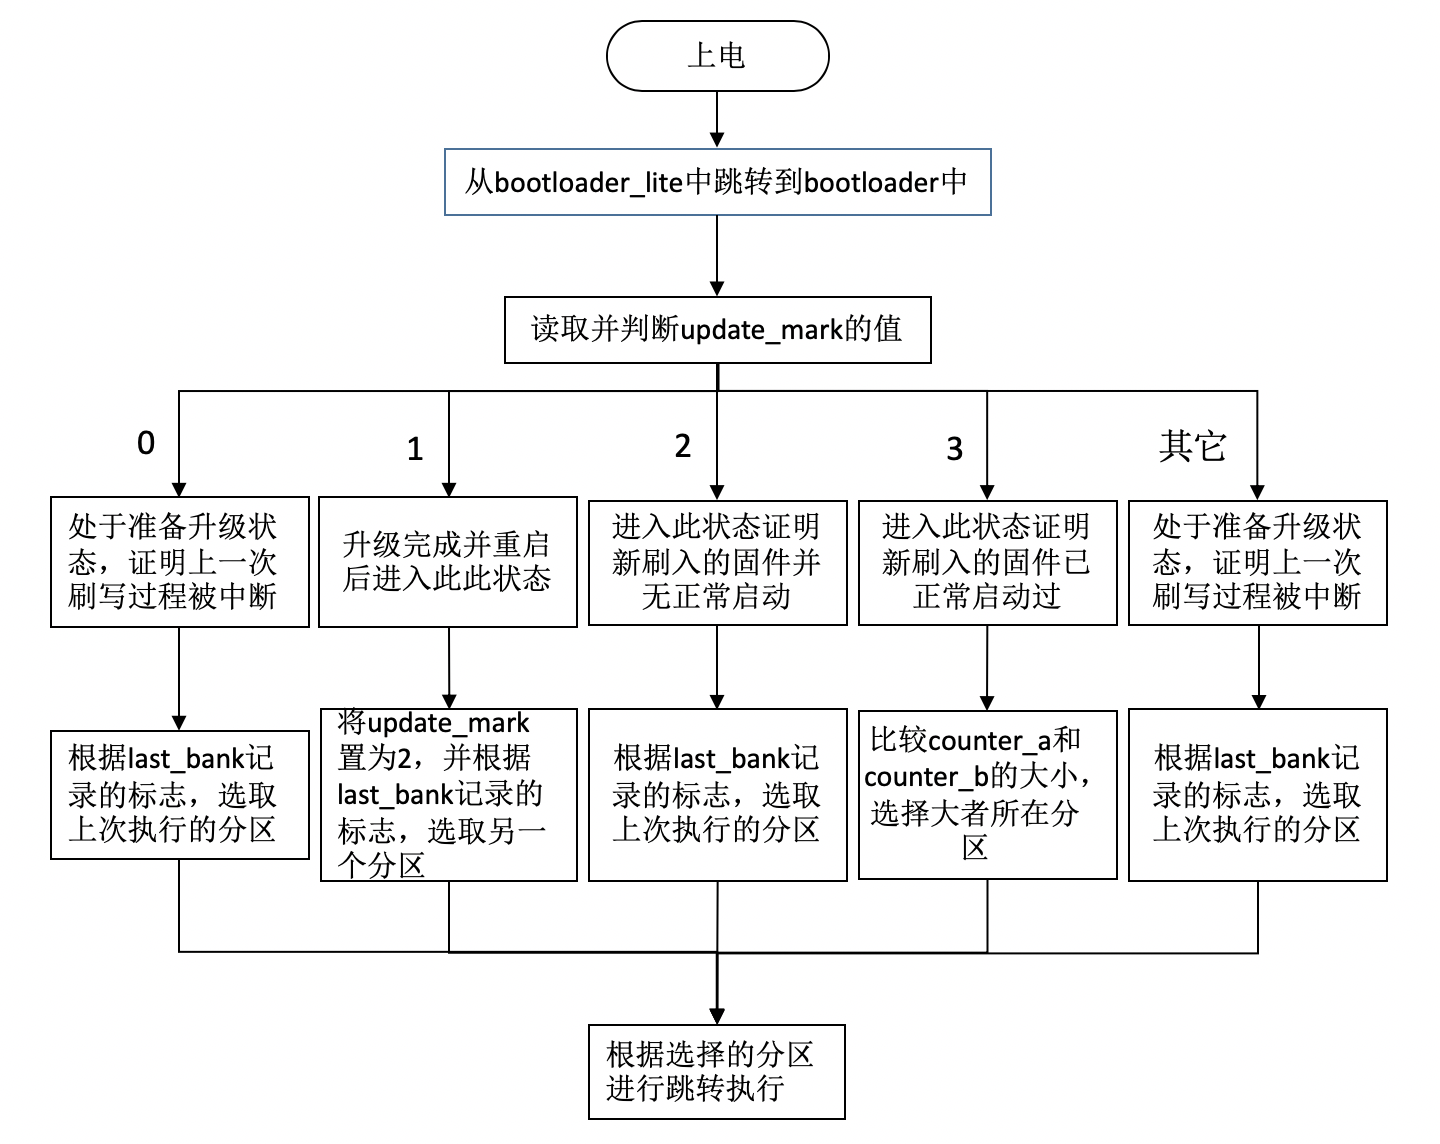
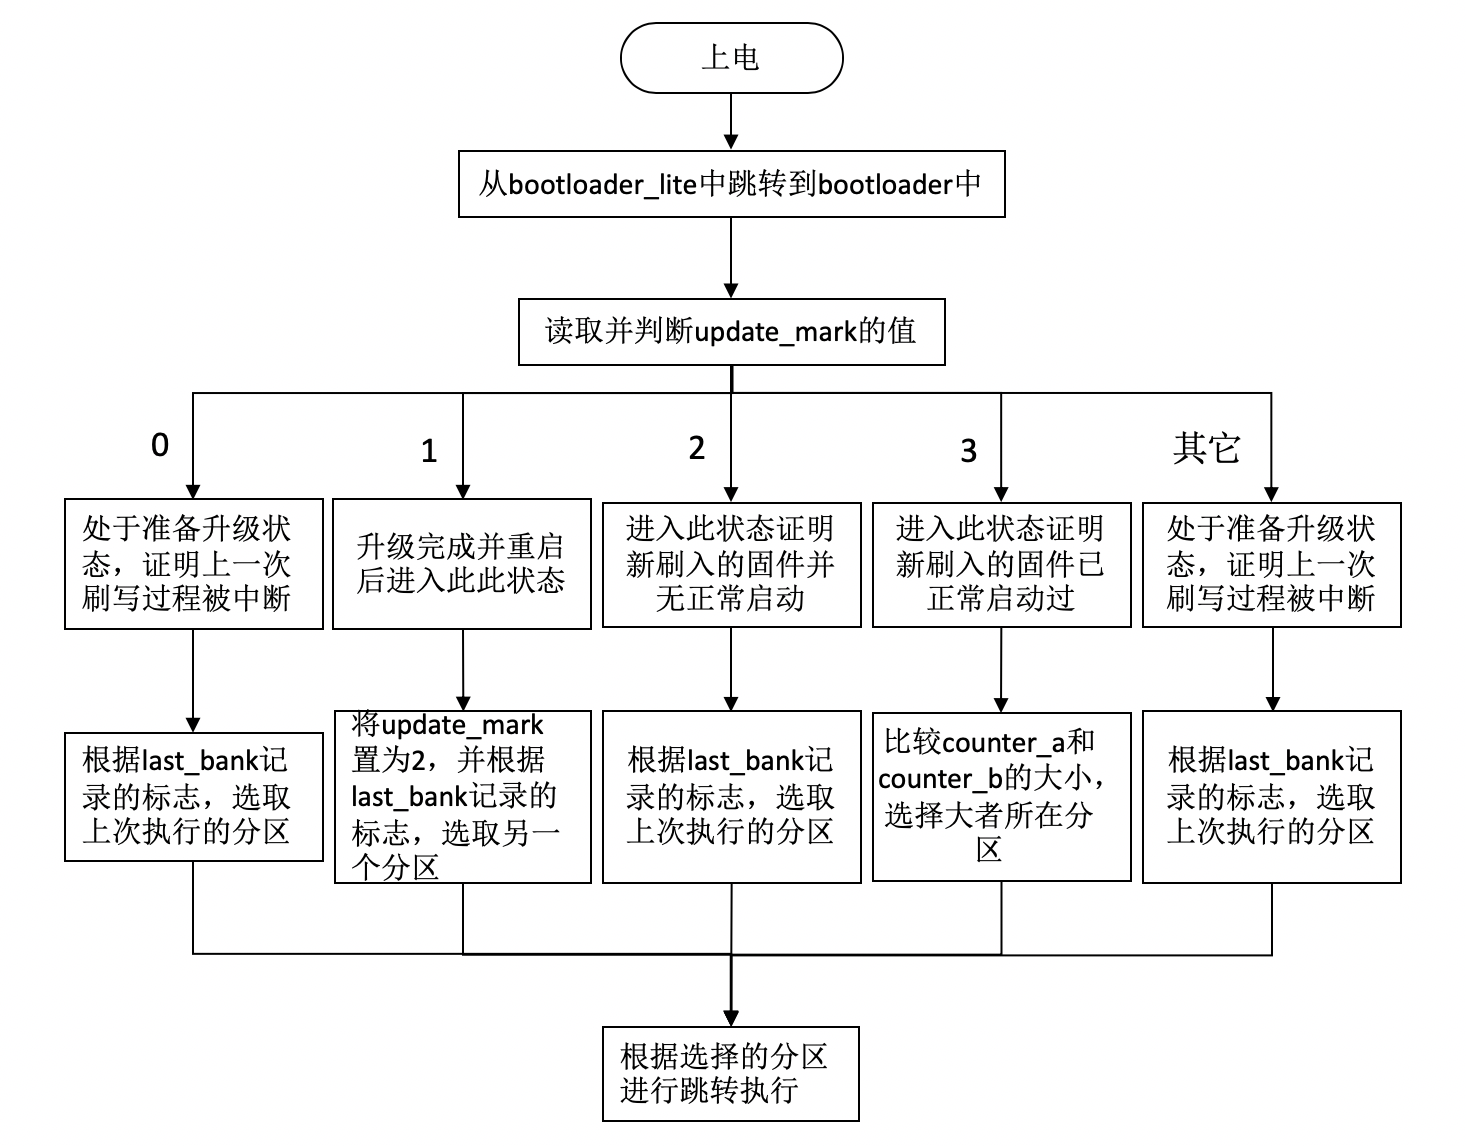
Site updated: 2020-04-18 21:45:01

diff --git a/2020/02/09/AB-system-mcu/index.html b/2020/02/09/AB-system-mcu/index.html
@@ -107,7 +107,7 @@ ga('send', 'pageview');
 <figure class="highlight plain"><table><tr><td class="gutter"><pre><span class="line">1</span><br><span class="line">2</span><br></pre></td><td class="code"><pre><span class="line">前四个字节：存放栈地址，MCU启动后会取该四个字节到MSP寄存器</span><br><span class="line">后四个字节：存放复位中断服务函数Reset_Handler的地址，MCU启动后会取该四个字节到PC寄存器，从而开始执行程序启动</span><br></pre></td></tr></table></figure>
 
 <p>启动逻辑如下图所示：</p>
-<img src="/images/AB-system-mcu/boot-process.png" align="center">
+<img src="/images/AB-system-mcu/boot-process.png" width="460" height="700" align="center">
 
 <h2 id="方案实现"><a href="#方案实现" class="headerlink" title="方案实现"></a>方案实现</h2><h3 id="bootloader如何选择启动分区"><a href="#bootloader如何选择启动分区" class="headerlink" title="bootloader如何选择启动分区"></a>bootloader如何选择启动分区</h3><p>上文启动流程中提到，bootloader会根据boot_flag区的相关标志，以及boot_a中的counter_a和boot_b中的counter_b来选择应该跳转的分区，这个过程至关重要。首先对该过程用到的各个标志作一些介绍：</p>
 <ol>
@@ -122,7 +122,7 @@ ga('send', 'pageview');
 </li>
 </ol>
 <p>结合上述启动标志，下图展示bootloader选择启动分区流程：</p>
-<img src="/images/AB-system-mcu/choose-bank.png" align="center">
+<img src="/images/AB-system-mcu/choose-bank.png" width="700" height="460" align="center">
 
 <h3 id="如何进行程序跳转"><a href="#如何进行程序跳转" class="headerlink" title="如何进行程序跳转"></a>如何进行程序跳转</h3><p>无论从bootloader_lite到bootloader，还是bootloader到application，都涉及到程序跳转。MCU程序跳转需要处理三个点：</p>
 <ul>
@@ -144,7 +144,7 @@ ga('send', 'pageview');
 </ul>
 <h3 id="如何制作bank-a和bank-b对应的固件"><a href="#如何制作bank-a和bank-b对应的固件" class="headerlink" title="如何制作bank_a和bank_b对应的固件"></a>如何制作bank_a和bank_b对应的固件</h3><p>由于MCU不支持虚拟内存，因此其物理地址必须和链接地址保持一致。这也就意味着bank_a和bank_b对应的固件有些许不同，只需要在同一工程中修改其ROM地址即可，即分别修改为0x08040000和0x080A0000。</p>
 <h3 id="升级流程"><a href="#升级流程" class="headerlink" title="升级流程"></a>升级流程</h3><p>MCU双分区升级流程如下图所示：</p>
-<img src="/images/AB-system-mcu/update-process.png" align="center">
+<img src="/images/AB-system-mcu/update-process.png" width="460" height="700" align="center">
 
 
 
